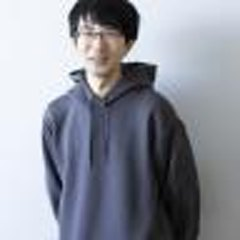
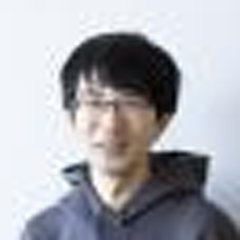
people: cross-check against the interview-card cutouts (photos and face match)
- PORTRAITS / people.yml: ten 社長が訊く rows named a truncated entry
  (...-chapter-1); they now carry the full file stem.
- 足立美奈子 2014 removed: in the 2083WEB group shot she faces away, the
  crop was the back of her head.
- 髙山玲央名: the 2026 CEDiL photo is a 96x128 full-body shot; it gets a
  face box, and the clear 2023 photo becomes the main avatar.
- 14 new portraits (社長が訊く chapters 1-4 of Pokedex 3D BW and Rumble,
  CGWORLD CEDEC 2026, VG247 2019): captioned photos whose face matches the
  person's other verified portraits (OpenCV SFace cosine 0.62-0.92).
- Staff blog entities: surname-only names linked to people (森本 x19,
  一之濑, 海野, 松岛, 大村; 吉田 / 太田 only where the photo verifies it;
  ジェイミー -> James Turner).
- Exporter: people.json portrait `post` is now the App post id (no date,
  brackets removed, truncated stems completed), so the App can open it and
  tell "this entry's photo"; the cover fallback matches it exactly.

diff --git a/tools/build-people.py b/tools/build-people.py
@@ -323,16 +323,16 @@ PORTRAITS = [
     dict(name="大森滋", year=2009, src=_GF + "148/ohmori091009-767adcf0.jpg", source="Game Freak 员工博客 2009-10-09「ＨＧ・ＳＳ 語っちゃいます！ その1」", post="2009-10-09-gamefreak-staff-148"),
     dict(name="太田哲司", year=2008, src=_GF + "90/tetsuzi081003-ecfe4970.jpg", box=(55, 35, 75, 85), source="Game Freak 员工博客 2008-10-03「プラチナここだけの話 第2回」", post="2008-10-03-gamefreak-staff-90"),
     # 社長が訊く - the photo follows the speaker's box on nintendo.co.jp (checked against the page)
-    dict(name="小笠原裕", year=2011, main=True, src=_IA + "2011-06-16-interview-iwata-asks-pokedex-3d-bw-chapter-1/photo2.jpg", source="社長が訊く『ポケモン立体図鑑BW』第1章 photo2", post="2011-06-16-interview-iwata-asks-pokedex-3d-bw-chapter-1"),
-    dict(name="竹内敦", year=2011, main=True, src=_IA + "2011-06-16-interview-iwata-asks-pokedex-3d-bw-chapter-1/photo3.jpg", source="社長が訊く『ポケモン立体図鑑BW』第1章 photo3", post="2011-06-16-interview-iwata-asks-pokedex-3d-bw-chapter-1"),
-    dict(name="折本哲也", year=2011, main=True, src=_IA + "2011-06-16-interview-iwata-asks-pokedex-3d-bw-chapter-1/photo4.jpg", source="社長が訊く『ポケモン立体図鑑BW』第1章 photo4", post="2011-06-16-interview-iwata-asks-pokedex-3d-bw-chapter-1"),
-    dict(name="石原恒和", year=2011, src=_IA + "2011-06-16-interview-iwata-asks-pokedex-3d-bw-chapter-1/photo1.jpg", source="社長が訊く『ポケモン立体図鑑BW』第1章 photo1", post="2011-06-16-interview-iwata-asks-pokedex-3d-bw-chapter-1"),
-    dict(name="松村直树", year=2011, main=True, src=_IA + "2011-08-04-interview-iwata-asks-super-pokemon-rumble-chapter-1/photo2.jpg", source="社長が訊く『スーパーポケモンスクランブル』第1章 photo2", post="2011-08-04-interview-iwata-asks-super-pokemon-rumble-chapter-1"),
-    dict(name="小泽达雄", year=2011, main=True, src=_IA + "2011-08-04-interview-iwata-asks-super-pokemon-rumble-chapter-1/photo3.jpg", source="社長が訊く『スーパーポケモンスクランブル』第1章 photo3", post="2011-08-04-interview-iwata-asks-super-pokemon-rumble-chapter-1"),
-    dict(name="长畑成一郎", year=2012, main=True, src=_IA + "2012-11-22-interview-iwata-asks-gates-to-infinity-chapter-1/photo1.jpg", source="社長が訊く『ポケモン不思議のダンジョン マグナゲートと∞迷宮』第1章 photo1", post="2012-11-22-interview-iwata-asks-gates-to-infinity-chapter-1"),
-    dict(name="富江慎一郎", year=2012, main=True, src=_IA + "2012-11-22-interview-iwata-asks-gates-to-infinity-chapter-1/photo2.jpg", source="社長が訊く『ポケモン不思議のダンジョン マグナゲートと∞迷宮』第1章 photo2", post="2012-11-22-interview-iwata-asks-gates-to-infinity-chapter-1"),
-    dict(name="石原恒和", year=2012, src=_IA + "2012-11-22-interview-iwata-asks-gates-to-infinity-chapter-1/photo3.jpg", source="社長が訊く『ポケモン不思議のダンジョン マグナゲートと∞迷宮』第1章 photo3", post="2012-11-22-interview-iwata-asks-gates-to-infinity-chapter-1"),
-    dict(name="岩田聪", year=2012, src=_IA + "2012-11-22-interview-iwata-asks-gates-to-infinity-chapter-1/photo4.jpg", source="社長が訊く『ポケモン不思議のダンジョン マグナゲートと∞迷宮』第1章 photo4", post="2012-11-22-interview-iwata-asks-gates-to-infinity-chapter-1"),
+    dict(name="小笠原裕", year=2011, main=True, src=_IA + "2011-06-16-interview-iwata-asks-pokedex-3d-bw-chapter-1/photo2.jpg", source="社長が訊く『ポケモン立体図鑑BW』第1章 photo2", post="2011-06-16-interview-iwata-asks-pokedex-3d-bw-chapter-1-three-minute-download"),
+    dict(name="竹内敦", year=2011, main=True, src=_IA + "2011-06-16-interview-iwata-asks-pokedex-3d-bw-chapter-1/photo3.jpg", source="社長が訊く『ポケモン立体図鑑BW』第1章 photo3", post="2011-06-16-interview-iwata-asks-pokedex-3d-bw-chapter-1-three-minute-download"),
+    dict(name="折本哲也", year=2011, main=True, src=_IA + "2011-06-16-interview-iwata-asks-pokedex-3d-bw-chapter-1/photo4.jpg", source="社長が訊く『ポケモン立体図鑑BW』第1章 photo4", post="2011-06-16-interview-iwata-asks-pokedex-3d-bw-chapter-1-three-minute-download"),
+    dict(name="石原恒和", year=2011, src=_IA + "2011-06-16-interview-iwata-asks-pokedex-3d-bw-chapter-1/photo1.jpg", source="社長が訊く『ポケモン立体図鑑BW』第1章 photo1", post="2011-06-16-interview-iwata-asks-pokedex-3d-bw-chapter-1-three-minute-download"),
+    dict(name="松村直树", year=2011, main=True, src=_IA + "2011-08-04-interview-iwata-asks-super-pokemon-rumble-chapter-1/photo2.jpg", source="社長が訊く『スーパーポケモンスクランブル』第1章 photo2", post="2011-08-04-interview-iwata-asks-super-pokemon-rumble-chapter-1-even-my-wife"),
+    dict(name="小泽达雄", year=2011, main=True, src=_IA + "2011-08-04-interview-iwata-asks-super-pokemon-rumble-chapter-1/photo3.jpg", source="社長が訊く『スーパーポケモンスクランブル』第1章 photo3", post="2011-08-04-interview-iwata-asks-super-pokemon-rumble-chapter-1-even-my-wife"),
+    dict(name="长畑成一郎", year=2012, main=True, src=_IA + "2012-11-22-interview-iwata-asks-gates-to-infinity-chapter-1/photo1.jpg", source="社長が訊く『ポケモン不思議のダンジョン マグナゲートと∞迷宮』第1章 photo1", post="2012-11-22-interview-iwata-asks-gates-to-infinity-chapter-1-impossible-combination"),
+    dict(name="富江慎一郎", year=2012, main=True, src=_IA + "2012-11-22-interview-iwata-asks-gates-to-infinity-chapter-1/photo2.jpg", source="社長が訊く『ポケモン不思議のダンジョン マグナゲートと∞迷宮』第1章 photo2", post="2012-11-22-interview-iwata-asks-gates-to-infinity-chapter-1-impossible-combination"),
+    dict(name="石原恒和", year=2012, src=_IA + "2012-11-22-interview-iwata-asks-gates-to-infinity-chapter-1/photo3.jpg", source="社長が訊く『ポケモン不思議のダンジョン マグナゲートと∞迷宮』第1章 photo3", post="2012-11-22-interview-iwata-asks-gates-to-infinity-chapter-1-impossible-combination"),
+    dict(name="岩田聪", year=2012, src=_IA + "2012-11-22-interview-iwata-asks-gates-to-infinity-chapter-1/photo4.jpg", source="社長が訊く『ポケモン不思議のダンジョン マグナゲートと∞迷宮』第1章 photo4", post="2012-11-22-interview-iwata-asks-gates-to-infinity-chapter-1-impossible-combination"),
     # ポケットモンスター図鑑 (1996) staff pages - the name is printed beside each photo
     dict(name="渡边哲也", year=1996, src=_ZUKAN + "p143_p141_ch6_interview_part7.jpg", box=(229, 161, 116, 116), source="ポケットモンスター図鑑 1996 P.141", post="1996-04-05-scan-shodai-zukan-1996-staff-interview"),
     dict(name="藤原基史", year=1996, main=True, src=_ZUKAN + "p143_p141_ch6_interview_part7.jpg", box=(858, 154, 116, 116), source="ポケットモンスター図鑑 1996 P.141（藤原基史）", post="1996-04-05-scan-shodai-zukan-1996-staff-interview"),
@@ -342,7 +342,7 @@ PORTRAITS = [
     dict(name="久保雅一", year=2021, main=True, box=(500, 190, 320, 350), src=_IA + "2021-10-25-interview-hobonichi-2021-kubo/001.jpg", source="ほぼ日刊イトイ新聞「編集とは何か。12 小学館 久保雅一さん」（2021）", post="2021-10-25-interview-hobonichi-2021-kubo"),
     dict(name="增田顺一", year=2014, src=_IA + "2014-10-31-interview-2083-gamefreak-sound-team-red-green-to-oras/img01.jpg", source="2083WEB 2014-10 GAME FREAK サウンドチーム インタビュー", post="2014-10-31-interview-2083-gamefreak-sound-team-red-green-to-oras"),
     dict(name="佐藤仁美", year=2014, src=_IA + "2014-10-31-interview-2083-gamefreak-sound-team-red-green-to-oras/img02.jpg", box=(100, 40, 70, 80), source="2083WEB 2014-10 GAME FREAK サウンドチーム インタビュー（左）", post="2014-10-31-interview-2083-gamefreak-sound-team-red-green-to-oras"),
-    dict(name="足立美奈子", year=2014, src=_IA + "2014-10-31-interview-2083-gamefreak-sound-team-red-green-to-oras/img02.jpg", box=(275, 35, 80, 85), source="2083WEB 2014-10 GAME FREAK サウンドチーム インタビュー（右）", post="2014-10-31-interview-2083-gamefreak-sound-team-red-green-to-oras"),
+    # 足立美奈子 2014（2083WEB img02 右）撤掉：她侧身背对镜头，裁出来是后脑勺（2026-10-01 比脸查出）
     dict(name="廣部圭太", year=2014, main=True, src=_IA + "2014-05-01-tpc-global-hirobe/profimg.jpg", source="株式会社ポケモン 採用サイト インタビュー（2014）", post="2014-05-01-interview-tpc-global-business-hirobe"),
     dict(name="岩尾和昌", year=2022, main=True, src="https://gallery.pokeamice.com/008gUrWjgy1h6zitw3w8pj307s07s75b.jpg", source="日本ゲーム大賞2022 優秀賞 受賞コメントページ", post="2022-10-10-[采访]-宝可梦传说阿尔宙斯-日本游戏大赏-岩尾获奖感言"),
     # CEDiL - every CEDEC talk's page carries its speakers' photographs (cedil_sessions/speaker/<id>/photo)
@@ -353,8 +353,9 @@ PORTRAITS = [
     dict(name="赤木达也", year=2026, main=True, src="https://cedil.cesa.or.jp/cedil_sessions/speaker/6588/photo", source="CEDiL 講演者プロフィール（CEDEC 2026 セッション 3366）", post="2026-07-23-interview-cedec-2026-za-lumiose-rendering-deck"),
     dict(name="宗像快", year=2026, main=True, src="https://cedil.cesa.or.jp/cedil_sessions/speaker/6638/photo", source="CEDiL 講演者プロフィール（CEDEC 2026 セッション 3390）", post="2026-07-22-interview-cedec-2026-battle-system-deck"),
     dict(name="小幡敏宏", year=2026, main=True, src="https://cedil.cesa.or.jp/cedil_sessions/speaker/6639/photo", source="CEDiL 講演者プロフィール（CEDEC 2026 セッション 3390）", post="2026-07-22-interview-cedec-2026-battle-system-deck"),
-    dict(name="髙山玲央名", year=2026, main=True, src="https://cedil.cesa.or.jp/cedil_sessions/speaker/6539/photo", source="CEDiL 講演者プロフィール（CEDEC 2026 セッション 3341）", post="2026-07-22-interview-cedec-2026-za-kubernetes-windows-containers"),
-    dict(name="髙山玲央名", year=2023, src="https://cedil.cesa.or.jp/cedil_sessions/speaker/5535/photo", source="CEDiL 講演者プロフィール（CEDEC 2023 セッション 2792）"),
+    # 2026 那张是 96×128 的全身小照：给脸框（YuNet 找的），主头像用 2023 那张清楚的（2026-10-01）
+    dict(name="髙山玲央名", year=2026, box=(27, 16, 28, 32), src="https://cedil.cesa.or.jp/cedil_sessions/speaker/6539/photo", source="CEDiL 講演者プロフィール（CEDEC 2026 セッション 3341）", post="2026-07-22-interview-cedec-2026-za-kubernetes-windows-containers"),
+    dict(name="髙山玲央名", year=2023, main=True, src="https://cedil.cesa.or.jp/cedil_sessions/speaker/5535/photo", source="CEDiL 講演者プロフィール（CEDEC 2023 セッション 2792）"),
     dict(name="一之濑刚", year=2023, src="https://cedil.cesa.or.jp/cedil_sessions/speaker/5584/photo", source="CEDiL 講演者プロフィール（CEDEC 2023 セッション 2819）", post="2023-08-25-interview-cedec-2023-sound-design-ichinose-paldea"),
     dict(name="北村一树", year=2023, main=True, src="https://cedil.cesa.or.jp/cedil_sessions/speaker/5585/photo", source="CEDiL 講演者プロフィール（CEDEC 2023 セッション 2819）", post="2023-08-25-interview-cedec-2023-sound-design-ichinose-paldea"),
     dict(name="岩本翔", year=2023, main=True, src="https://cedil.cesa.or.jp/cedil_sessions/speaker/5586/photo", source="CEDiL 講演者プロフィール（CEDEC 2023 セッション 2819）", post="2023-08-25-interview-cedec-2023-sound-design-ichinose-paldea"),
@@ -495,6 +496,22 @@ PORTRAITS = [
     dict(name="西野弘二", year=2000, src=_IA + "2000-07-01-interview-nom-genesis-gamefreak/nishino.jpg", source="2000-07-01-interview-nom-genesis-gamefreak · 西野弘二（策划）：负责企划、数据管理。负责宝可梦出现率的设定以及世界观设定。 西野弘二肖像（2000年）", post="2000-07-01-interview-nom-genesis-gamefreak"),
     dict(name="西野弘二", year=2000, src=_IA + "2000-07-01-interview-nom-gold-silver-gamefreak/m040.jpg", source="2000-07-01-interview-nom-gold-silver-gamefreak · 西野弘二（策划）：不仅构建了地图上的生息分布与出现率，还构筑了每位训练家的隐藏设定与成长谱系。 西野弘二谈训练家职业与内", post="2000-07-01-interview-nom-gold-silver-gamefreak"),
     dict(name="长畑成一郎", year=2012, src=_IA + "2012-11-22-interview-iwata-asks-gates-to-infinity-chapter-2/photo6.jpg", source="2012-11-22-interview-iwata-asks-gates-to-infinity-chapter-2-system-drama · 长畑 成一郎（株式会社Spike Chunsoft 开发制作人） 长畑成一郎肖像", post="2012-11-22-interview-iwata-asks-gates-to-infinity-chapter-2-system-drama"),
+    # 2026-10-01 访谈卡抠图和人物库互验后补的 14 张：图注点名，且和本人别处已核对的头像比脸一致（OpenCV SFace 余弦 0.62–0.92）；
+    # 社長が訊く 的照片紧跟在所拍之人的发言框之后（见上），CGWORLD 是 ▲ 单人图注
+    dict(name="Alfredo Spadafina", year=2026, src=_IA + "2026-09-17-interview-cgworld-2026-cedec-pkmnza/001.jpg", source="CGWORLD.jp 2026-09-17 CEDEC 2026 講演レポート（2）Alfredo Spadafina", post="2026-09-17-interview-cgworld-2026-cedec-pkmnza"),
+    dict(name="前泽圭一", year=2026, src=_IA + "2026-09-17-interview-cgworld-2026-cedec-pkmnza/011.jpg", source="CGWORLD.jp 2026-09-17 CEDEC 2026 講演レポート（2）前澤圭一", post="2026-09-17-interview-cgworld-2026-cedec-pkmnza"),
+    dict(name="赤木达也", year=2026, src=_IA + "2026-09-17-interview-cgworld-2026-cedec-pkmnza/008.jpg", source="CGWORLD.jp 2026-09-17 CEDEC 2026 講演レポート（2）赤木達也", post="2026-09-17-interview-cgworld-2026-cedec-pkmnza"),
+    dict(name="增田顺一", year=2019, src=_IA + "2019-10-24-interview-vg247-2019-swsh/002.jpg", source="VG247 2019-10-24 Pokémon Sword & Shield interview（Junichi Masuda）", post="2019-10-24-interview-vg247-2019-swsh"),
+    dict(name="岩田聪", year=2011, src=_IA + "2011-06-16-interview-iwata-asks-pokedex-3d-bw-chapter-1/photo5.jpg", source="社長が訊く『ポケモン立体図鑑BW』第1章 photo5", post="2011-06-16-interview-iwata-asks-pokedex-3d-bw-chapter-1-three-minute-download"),
+    dict(name="竹内敦", year=2011, src=_IA + "2011-06-16-interview-iwata-asks-pokedex-3d-bw-chapter-2/photo8.jpg", source="社長が訊く『ポケモン立体図鑑BW』第2章 photo8", post="2011-06-16-interview-iwata-asks-pokedex-3d-bw-chapter-2-pokemon-in-reality"),
+    dict(name="小笠原裕", year=2011, src=_IA + "2011-06-16-interview-iwata-asks-pokedex-3d-bw-chapter-2/photo9.jpg", source="社長が訊く『ポケモン立体図鑑BW』第2章 photo9", post="2011-06-16-interview-iwata-asks-pokedex-3d-bw-chapter-2-pokemon-in-reality"),
+    dict(name="折本哲也", year=2011, src=_IA + "2011-06-16-interview-iwata-asks-pokedex-3d-bw-chapter-3/photo11.jpg", source="社長が訊く『ポケモン立体図鑑BW』第3章 photo11", post="2011-06-16-interview-iwata-asks-pokedex-3d-bw-chapter-3-obvious-animation"),
+    dict(name="石原恒和", year=2011, src=_IA + "2011-06-16-interview-iwata-asks-pokedex-3d-bw-chapter-3/photo12.jpg", source="社長が訊く『ポケモン立体図鑑BW』第3章 photo12", post="2011-06-16-interview-iwata-asks-pokedex-3d-bw-chapter-3-obvious-animation"),
+    dict(name="竹内敦", year=2011, src=_IA + "2011-06-16-interview-iwata-asks-pokedex-3d-bw-chapter-3/photo14.jpg", source="社長が訊く『ポケモン立体図鑑BW』第3章 photo14", post="2011-06-16-interview-iwata-asks-pokedex-3d-bw-chapter-3-obvious-animation"),
+    dict(name="岩田聪", year=2011, src=_IA + "2011-06-16-interview-iwata-asks-pokedex-3d-bw-chapter-4/photo17.jpg", source="社長が訊く『ポケモン立体図鑑BW』第4章 photo17", post="2011-06-16-interview-iwata-asks-pokedex-3d-bw-chapter-4-ambition-for-all"),
+    dict(name="小泽达雄", year=2011, src=_IA + "2011-08-04-interview-iwata-asks-super-pokemon-rumble-chapter-2/photo7.jpg", source="社長が訊く『スーパーポケモンスクランブル』第2章 photo7", post="2011-08-04-interview-iwata-asks-super-pokemon-rumble-chapter-2-30-billion-combinations"),
+    dict(name="松村直树", year=2011, src=_IA + "2011-08-04-interview-iwata-asks-super-pokemon-rumble-chapter-2/photo8.jpg", source="社長が訊く『スーパーポケモンスクランブル』第2章 photo8", post="2011-08-04-interview-iwata-asks-super-pokemon-rumble-chapter-2-30-billion-combinations"),
+    dict(name="小泽达雄", year=2011, src=_IA + "2011-08-04-interview-iwata-asks-super-pokemon-rumble-chapter-3/photo13.jpg", source="社長が訊く『スーパーポケモンスクランブル』第3章 photo13", post="2011-08-04-interview-iwata-asks-super-pokemon-rumble-chapter-3-want-to-play-again"),
 ]
 
 

diff --git a/tools/export-docs-archive.py b/tools/export-docs-archive.py
@@ -247,7 +247,7 @@ def portrait_for_entry(person: dict, slug: str, year: int | None) -> str:
     src = person.get("avatar") or ""
     gap = 6
     for ph in person.get("portraits") or []:
-        if ph.get("post") and ph["post"] in slug:
+        if ph.get("post") and ph["post"] == slug:  # post 已经是 App 的文章 id（portrait_post_id）
             return ph["image"] or src
         if ph.get("year") and year:
             d = abs(int(ph["year"]) - year)
@@ -333,6 +333,25 @@ def dump(path: Path, obj) -> int:
 
 # ---------------------------------------------------------------- people
 
+_POST_STEMS: list[str] | None = None
+
+
+def portrait_post_id(stem: str) -> str | None:
+    """人物库头像登记的条目（_posts 文件名主干，带日期）→ App 的文章 id（和 index 同一套：去日期、去括号）。
+    登记被截短的（社長が訊く 早期几行写成 …-chapter-1）按唯一前缀补全；App 拿它直接开文章、认「本篇照片」。"""
+    global _POST_STEMS
+    stem = clean(stem)
+    if not stem:
+        return None
+    if _POST_STEMS is None:
+        _POST_STEMS = sorted(f.stem for f in (ROOT / "_posts").glob("*.md"))
+    if stem not in _POST_STEMS:
+        hits = [s for s in _POST_STEMS if s.startswith(stem + "-")]
+        if len(hits) == 1:
+            stem = hits[0]
+    return jekyll_title_slug(DATE_PREFIX.sub("", stem))
+
+
 def build_people(people_raw: list, credits_people: dict, profiles: dict):
     by_slug: dict[str, dict] = {}
     name_to_slug: dict[str, str] = {}
@@ -352,7 +371,7 @@ def build_people(people_raw: list, credits_people: dict, profiles: dict):
             "avatar": abs_url(p.get("avatar")) or None,
             "avatar_source": clean(p.get("avatar_source")) or None,
             "portraits": [
-                {"image": abs_url(pt.get("image")), "year": pt.get("year"), "source": clean(pt.get("source")) or None, "post": clean(pt.get("post")) or None}
+                {"image": abs_url(pt.get("image")), "year": pt.get("year"), "source": clean(pt.get("source")) or None, "post": portrait_post_id(pt.get("post"))}
                 for pt in as_list(p.get("portraits")) if isinstance(pt, dict) and pt.get("image")
             ],
             "credits": None,

diff --git a/_posts/2010-10-08-gamefreak-staff-202.md b/_posts/2010-10-08-gamefreak-staff-202.md
@@ -43,9 +43,9 @@ entities:
     - "增田顺一"
     - "杉森建"
     - "まつみや"
-    - "ジェイミー"
+    - "James Turner"
     - "おおむら"
-    - "一之濑"
+    - "一之濑刚"
   works:
     - "宝可梦 黑·白"
     - "宝可梦 金·银"

diff --git a/_posts/2009-12-18-gamefreak-staff-160.md b/_posts/2009-12-18-gamefreak-staff-160.md
@@ -40,8 +40,8 @@ source:
   source_type: official_blog_wayback
 entities:
   people:
-    - "松岛"
-    - "森本"
+    - "松岛贤二"
+    - "森本茂树"
   works:
     - "宝可梦 心金·魂银"
     - "宝可梦 金·银"

diff --git a/_posts/2010-10-22-gamefreak-staff-204.md b/_posts/2010-10-22-gamefreak-staff-204.md
@@ -41,9 +41,9 @@ source:
 entities:
   people:
     - "增田顺一"
-    - "海野"
+    - "海野隆雄"
     - "杉森建"
-    - "ジェイミー"
+    - "James Turner"
   works:
     - "宝可梦 黑·白"
   organizations:

diff --git a/_posts/2009-10-27-gamefreak-staff-151.md b/_posts/2009-10-27-gamefreak-staff-151.md
@@ -42,8 +42,8 @@ source:
 entities:
   people:
     - "增田顺一"
-    - "一之濑"
-    - "森本"
+    - "一之濑刚"
+    - "森本茂树"
   works:
     - "宝可梦 心金·魂银"
     - "宝可梦 金·银"

diff --git a/_posts/2009-09-25-gamefreak-staff-145.md b/_posts/2009-09-25-gamefreak-staff-145.md
@@ -41,7 +41,7 @@ source:
   source_type: official_blog_wayback
 entities:
   people:
-    - "森本"
+    - "森本茂树"
   works:
     - "宝可梦 心金·魂银"
     - "宝可梦 钻石·珍珠·白金"

diff --git a/_posts/2009-11-20-gamefreak-staff-155.md b/_posts/2009-11-20-gamefreak-staff-155.md
@@ -41,7 +41,7 @@ source:
   source_type: official_blog_wayback
 entities:
   people:
-    - "海野"
+    - "海野隆雄"
   works:
     - "宝可梦 心金·魂银"
     - "宝可梦 火红·叶绿"

diff --git a/_posts/2009-05-18-gamefreak-staff-126.md b/_posts/2009-05-18-gamefreak-staff-126.md
@@ -47,7 +47,7 @@ source:
   source_type: official_blog_wayback
 entities:
   people:
-    - "森本"
+    - "森本茂树"
   works:
     - "宝可梦 心金·魂银"
     - "宝可梦 金·银"

diff --git a/_posts/2009-10-23-gamefreak-staff-150.md b/_posts/2009-10-23-gamefreak-staff-150.md
@@ -41,7 +41,7 @@ source:
   source_type: official_blog_wayback
 entities:
   people:
-    - "大村"
+    - "大村祐介"
   works:
     - "宝可梦 心金·魂银"
     - "宝可梦 金·银"

diff --git a/_posts/2009-01-09-gamefreak-staff-106.md b/_posts/2009-01-09-gamefreak-staff-106.md
@@ -50,7 +50,7 @@ entities:
     - "ジョニー"
     - "おにいさん"
     - "榎木"
-    - "森本"
+    - "森本茂树"
     - "いわし"
   organizations:
     - "Game Freak"

diff --git a/_posts/2009-09-11-gamefreak-staff-142.md b/_posts/2009-09-11-gamefreak-staff-142.md
@@ -46,7 +46,7 @@ source:
   source_type: official_blog_wayback
 entities:
   people:
-    - "森本"
+    - "森本茂树"
   works:
     - "宝可梦 心金·魂银"
   organizations:
